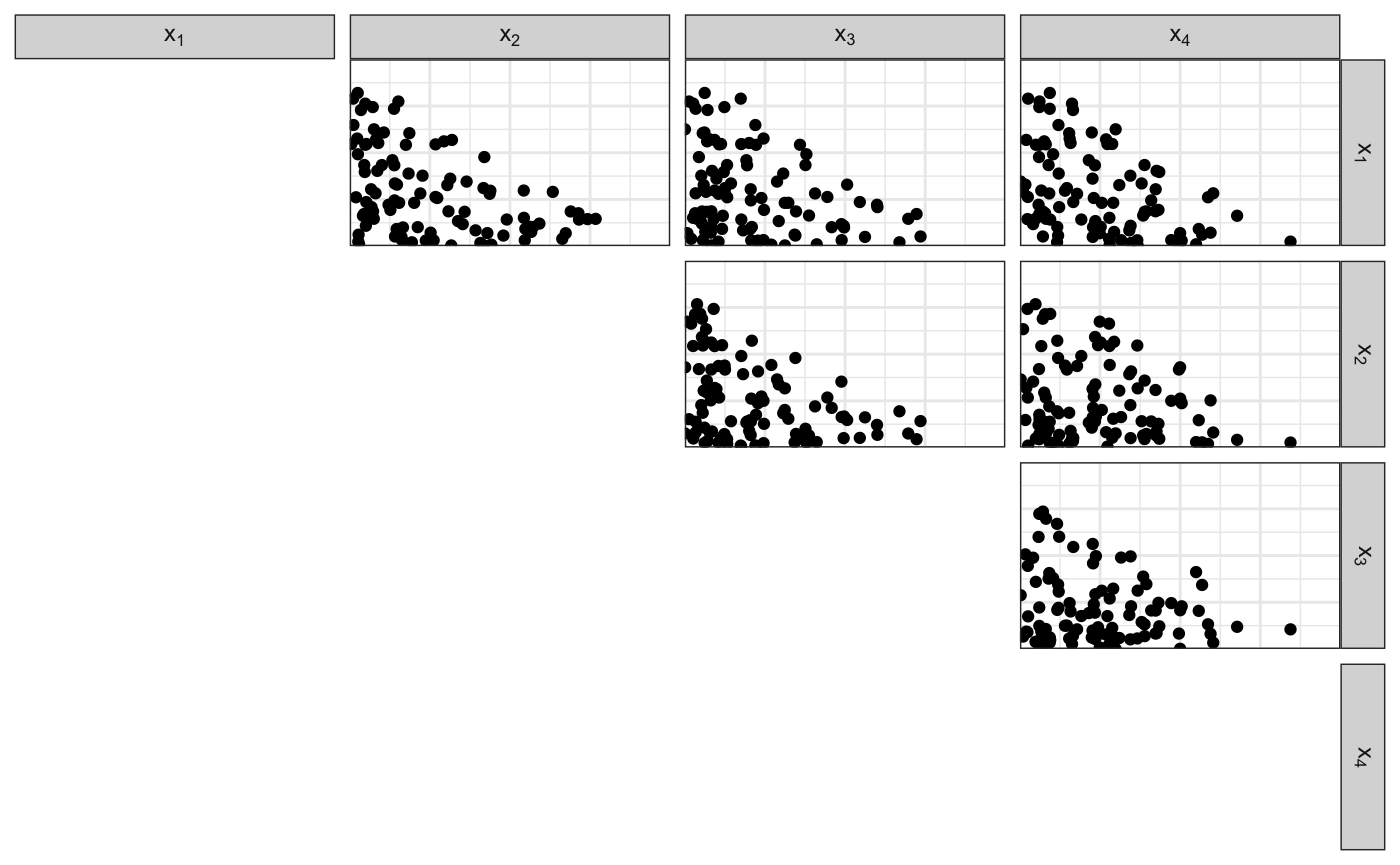
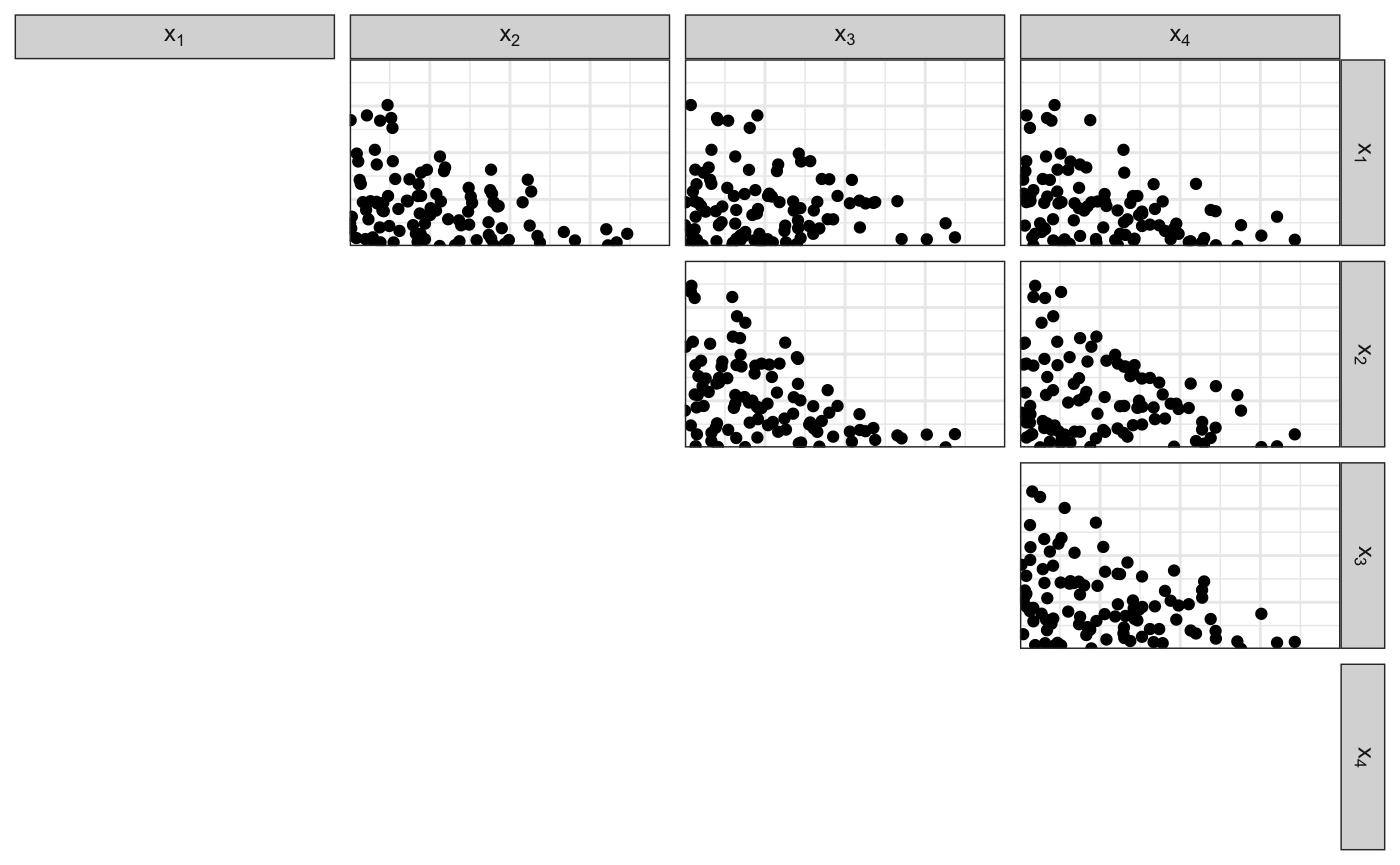
Built site for rsamplestudy: 0.3.2@943f0e3

diff --git a/articles/dirichletdirichlet-study.html b/articles/dirichletdirichlet-study.html
@@ -145,24 +145,24 @@ This vignette describes the Dirichlet-Dirichlet model.</p>
 <p>Notice that the hyperparameter is sampled, too (but it can be fixed).</p>
 <div class="sourceCode" id="cb2"><html><body><pre class="r"><span class="fu"><a href="https://rdrr.io/r/utils/head.html">head</a></span>(<span class="no">list_pop</span>$<span class="no">df_pop</span>)
 <span class="co">#&gt; # A tibble: 6 x 5</span>
-<span class="co">#&gt;   source `x[1]` `x[2]` `x[3]`   `x[4]`</span>
-<span class="co">#&gt;    &lt;int&gt;  &lt;dbl&gt;  &lt;dbl&gt;  &lt;dbl&gt;    &lt;dbl&gt;</span>
-<span class="co">#&gt; 1      1      0      0 0.997  0.00343 </span>
-<span class="co">#&gt; 2      1      0      0 0.999  0.000762</span>
-<span class="co">#&gt; 3      1      0      0 0.648  0.352   </span>
-<span class="co">#&gt; 4      1      0      0 0.0148 0.985   </span>
-<span class="co">#&gt; 5      1      0      0 0.958  0.0418  </span>
-<span class="co">#&gt; 6      1      0      0 0.871  0.129</span>
+<span class="co">#&gt;   source `x[1]` `x[2]`    `x[3]` `x[4]`</span>
+<span class="co">#&gt;    &lt;int&gt;  &lt;dbl&gt;  &lt;dbl&gt;     &lt;dbl&gt;  &lt;dbl&gt;</span>
+<span class="co">#&gt; 1      1  0.636 0.364  1.30e- 82      0</span>
+<span class="co">#&gt; 2      1  0.847 0.153  9.62e- 46      0</span>
+<span class="co">#&gt; 3      1  0.821 0.179  5.33e-  8      0</span>
+<span class="co">#&gt; 4      1  0.250 0.750  1.92e-318      0</span>
+<span class="co">#&gt; 5      1  0.920 0.0803 5.24e- 70      0</span>
+<span class="co">#&gt; 6      1  0.973 0.0265 8.41e- 81      0</span>
 <span class="fu"><a href="https://rdrr.io/r/utils/head.html">head</a></span>(<span class="no">list_pop</span>$<span class="no">df_sources</span>)
 <span class="co">#&gt; # A tibble: 6 x 5</span>
-<span class="co">#&gt;   source `theta[1]` `theta[2]`   `theta[3]` `theta[4]`</span>
-<span class="co">#&gt;    &lt;int&gt;      &lt;dbl&gt;      &lt;dbl&gt;        &lt;dbl&gt;      &lt;dbl&gt;</span>
-<span class="co">#&gt; 1      1   3.20e-20   5.86e-10 0.801             0.199</span>
-<span class="co">#&gt; 2      2   5.52e- 4   7.58e-38 0.0000000112      0.999</span>
-<span class="co">#&gt; 3      3   6.42e-36   1.61e-19 0.107             0.893</span>
-<span class="co">#&gt; 4      4   4.18e- 1   6.28e-20 0.369             0.213</span>
-<span class="co">#&gt; 5      5   4.48e-48   2.09e-11 0.636             0.364</span>
-<span class="co">#&gt; 6      6   7.36e-32   6.54e- 7 0.789             0.211</span></pre></body></html></div>
+<span class="co">#&gt;   source `theta[1]` `theta[2]` `theta[3]` `theta[4]`</span>
+<span class="co">#&gt;    &lt;int&gt;      &lt;dbl&gt;      &lt;dbl&gt;      &lt;dbl&gt;      &lt;dbl&gt;</span>
+<span class="co">#&gt; 1      1     0.602      0.396    2.01e- 3   3.79e- 9</span>
+<span class="co">#&gt; 2      2     0.195      0.802    4.95e- 6   3.33e- 3</span>
+<span class="co">#&gt; 3      3     0.0529     0.947    9.20e-32   9.60e-10</span>
+<span class="co">#&gt; 4      4     0.358      0.638    2.48e- 8   3.79e- 3</span>
+<span class="co">#&gt; 5      5     0.508      0.0397   8.42e-12   4.52e- 1</span>
+<span class="co">#&gt; 6      6     0.923      0.0773   1.83e- 7   8.58e- 5</span></pre></body></html></div>
 </div>
 <div id="hyperparameters" class="section level2">
 <h2 class="hasAnchor">
@@ -170,7 +170,7 @@ This vignette describes the Dirichlet-Dirichlet model.</p>
 <p>We assume that the Dirichlet hyperparameter (the level farther from the data) comes from the Uniform distribution on the (p-1)-Simplex.<br>
 In other words, we will sample the Dirichlet hyperparameter from the <span class="math inline">\(\text{Dirichlet}{(\boldsymbol{1})}\)</span> distribution.</p>
 <p>The shortcut function the package is <code>fun_rdirichlet_hyperparameter</code>:</p>
-<div class="sourceCode" id="cb3"><html><body><pre class="r"><span class="no">df_diri</span> <span class="kw">&lt;-</span> <span class="fu">map_dfr</span>(<span class="fl">1</span>:<span class="fl">300</span>, ~ <span class="fu"><a href="../reference/fun_rdirichlet_hyperparameter.html">fun_rdirichlet_hyperparameter</a></span>(<span class="fl">3</span>))
+<div class="sourceCode" id="cb3"><html><body><pre class="r"><span class="no">df_diri</span> <span class="kw">&lt;-</span> <span class="kw pkg">purrr</span><span class="kw ns">::</span><span class="fu"><a href="https://purrr.tidyverse.org/reference/map.html">map_dfr</a></span>(<span class="fl">1</span>:<span class="fl">300</span>, ~ <span class="fu"><a href="../reference/fun_rdirichlet_hyperparameter.html">fun_rdirichlet_hyperparameter</a></span>(<span class="fl">3</span>))
 <span class="fu">scatter_matrix_simplex</span>(<span class="no">df_diri</span>)</pre></body></html></div>
 <p><img src="dirichletdirichlet-study_files/figure-html/unnamed-chunk-3-1.png" width="700"></p>
 </div>
@@ -189,33 +189,33 @@ This is generically done using <code>make_dataset_splits</code>:</p>
 <span class="co">#&gt; [5] "df_questioned"  "df_background"</span></pre></body></html></div>
 <div class="sourceCode" id="cb5"><html><body><pre class="r"><span class="fu"><a href="https://rdrr.io/r/utils/head.html">head</a></span>(<span class="no">list_samples</span>$<span class="no">df_reference</span>)
 <span class="co">#&gt; # A tibble: 6 x 5</span>
-<span class="co">#&gt;   source `x[1]` `x[2]` `x[3]`  `x[4]`</span>
-<span class="co">#&gt;    &lt;int&gt;  &lt;dbl&gt;  &lt;dbl&gt;  &lt;dbl&gt;   &lt;dbl&gt;</span>
-<span class="co">#&gt; 1      6      0      0 0.107  0.893  </span>
-<span class="co">#&gt; 2      6      0      0 0.946  0.0543 </span>
-<span class="co">#&gt; 3      6      0      0 0.462  0.538  </span>
-<span class="co">#&gt; 4      6      0      0 0.0735 0.926  </span>
-<span class="co">#&gt; 5      6      0      0 0.999  0.00119</span>
-<span class="co">#&gt; 6      6      0      0 0.407  0.593</span>
+<span class="co">#&gt;   source      `x[1]` `x[2]` `x[3]`    `x[4]`</span>
+<span class="co">#&gt;    &lt;int&gt;       &lt;dbl&gt;  &lt;dbl&gt;  &lt;dbl&gt;     &lt;dbl&gt;</span>
+<span class="co">#&gt; 1      2 0.572        0.428      0 1.98e-203</span>
+<span class="co">#&gt; 2      2 0.0000719    1.00       0 2.80e-  7</span>
+<span class="co">#&gt; 3      2 0.000000861  1.00       0 9.43e-188</span>
+<span class="co">#&gt; 4      2 0.0000108    1.00       0 5.25e- 25</span>
+<span class="co">#&gt; 5      2 0.0000107    1.00       0 2.51e- 47</span>
+<span class="co">#&gt; 6      2 0.235        0.765      0 4.54e-173</span>
 <span class="fu"><a href="https://rdrr.io/r/utils/head.html">head</a></span>(<span class="no">list_samples</span>$<span class="no">df_questioned</span>)
 <span class="co">#&gt; # A tibble: 5 x 5</span>
-<span class="co">#&gt;   source  `x[1]`    `x[2]`    `x[3]` `x[4]`</span>
-<span class="co">#&gt;    &lt;int&gt;   &lt;dbl&gt;     &lt;dbl&gt;     &lt;dbl&gt;  &lt;dbl&gt;</span>
-<span class="co">#&gt; 1      1 0       0.        9.59e-  1 0.0409</span>
-<span class="co">#&gt; 2      3 0       0.        3.06e-  2 0.969 </span>
-<span class="co">#&gt; 3      4 0.00248 0.        8.29e-  1 0.169 </span>
-<span class="co">#&gt; 4     15 0       0.        1.36e-236 1     </span>
-<span class="co">#&gt; 5     17 0       2.39e-126 9.54e-  1 0.0459</span>
+<span class="co">#&gt;   source  `x[1]`    `x[2]` `x[3]`   `x[4]`</span>
+<span class="co">#&gt;    &lt;int&gt;   &lt;dbl&gt;     &lt;dbl&gt;  &lt;dbl&gt;    &lt;dbl&gt;</span>
+<span class="co">#&gt; 1     12 0.0254  9.75e-  1      0 9.35e-25</span>
+<span class="co">#&gt; 2     12 0.00380 9.96e-  1      0 2.91e- 7</span>
+<span class="co">#&gt; 3     17 1       7.86e- 64      0 0.      </span>
+<span class="co">#&gt; 4     19 1       6.33e- 91      0 0.      </span>
+<span class="co">#&gt; 5     20 1.00    2.53e-252      0 4.38e- 4</span>
 <span class="fu"><a href="https://rdrr.io/r/utils/head.html">head</a></span>(<span class="no">list_samples</span>$<span class="no">df_background</span>)
 <span class="co">#&gt; # A tibble: 6 x 5</span>
-<span class="co">#&gt;   source `x[1]` `x[2]` `x[3]`   `x[4]`</span>
-<span class="co">#&gt;    &lt;int&gt;  &lt;dbl&gt;  &lt;dbl&gt;  &lt;dbl&gt;    &lt;dbl&gt;</span>
-<span class="co">#&gt; 1      1      0      0 0.997  0.00343 </span>
-<span class="co">#&gt; 2      1      0      0 0.999  0.000762</span>
-<span class="co">#&gt; 3      1      0      0 0.648  0.352   </span>
-<span class="co">#&gt; 4      1      0      0 0.0148 0.985   </span>
-<span class="co">#&gt; 5      1      0      0 0.958  0.0418  </span>
-<span class="co">#&gt; 6      1      0      0 0.871  0.129</span></pre></body></html></div>
+<span class="co">#&gt;   source `x[1]` `x[2]`    `x[3]` `x[4]`</span>
+<span class="co">#&gt;    &lt;int&gt;  &lt;dbl&gt;  &lt;dbl&gt;     &lt;dbl&gt;  &lt;dbl&gt;</span>
+<span class="co">#&gt; 1      1  0.636 0.364  1.30e- 82      0</span>
+<span class="co">#&gt; 2      1  0.847 0.153  9.62e- 46      0</span>
+<span class="co">#&gt; 3      1  0.821 0.179  5.33e-  8      0</span>
+<span class="co">#&gt; 4      1  0.250 0.750  1.92e-318      0</span>
+<span class="co">#&gt; 5      1  0.920 0.0803 5.24e- 70      0</span>
+<span class="co">#&gt; 6      1  0.973 0.0265 8.41e- 81      0</span></pre></body></html></div>
 <div id="source-parameters" class="section level3">
 <h3 class="hasAnchor">
 <a href="#source-parameters" class="anchor"></a>Source parameters</h3>

diff --git a/articles/dirichlet-distribution.html b/articles/dirichlet-distribution.html
@@ -153,14 +153,14 @@ In other words, <span class="math inline">\(\boldsymbol{X} \in \text{Simplex}{(p
 <div class="sourceCode" id="cb2"><html><body><pre class="r"><span class="no">df_diri</span> <span class="kw">&lt;-</span> <span class="fu"><a href="../reference/fun_rdirichlet.html">fun_rdirichlet</a></span>(<span class="no">n</span>, <span class="no">alpha</span>)
 <span class="fu"><a href="https://rdrr.io/r/utils/head.html">head</a></span>(<span class="no">df_diri</span>)
 <span class="co">#&gt; # A tibble: 6 x 4</span>
-<span class="co">#&gt;    `x[1]`   `x[2]` `x[3]`   `x[4]`</span>
-<span class="co">#&gt;     &lt;dbl&gt;    &lt;dbl&gt;  &lt;dbl&gt;    &lt;dbl&gt;</span>
-<span class="co">#&gt; 1 0.00347 8.72e-15  0.997 1.76e-11</span>
-<span class="co">#&gt; 2 0.104   2.83e- 5  0.896 7.12e- 7</span>
-<span class="co">#&gt; 3 0.272   7.46e- 7  0.728 3.20e- 5</span>
-<span class="co">#&gt; 4 0.0220  3.87e- 6  0.978 2.47e- 5</span>
-<span class="co">#&gt; 5 0.185   1.51e- 5  0.815 3.45e- 6</span>
-<span class="co">#&gt; 6 0.0113  3.85e- 3  0.985 4.86e- 5</span></pre></body></html></div>
+<span class="co">#&gt;     `x[1]`        `x[2]` `x[3]`   `x[4]`</span>
+<span class="co">#&gt;      &lt;dbl&gt;         &lt;dbl&gt;  &lt;dbl&gt;    &lt;dbl&gt;</span>
+<span class="co">#&gt; 1 0.191    0.235          0.509 6.49e- 2</span>
+<span class="co">#&gt; 2 0.00242  0.00000000315  0.792 2.06e- 1</span>
+<span class="co">#&gt; 3 0.000817 0.00815        0.991 2.77e-14</span>
+<span class="co">#&gt; 4 0.0596   0.000266       0.749 1.92e- 1</span>
+<span class="co">#&gt; 5 0.130    0.000144       0.870 4.99e- 7</span>
+<span class="co">#&gt; 6 0.0139   0.0000514      0.986 2.68e- 5</span></pre></body></html></div>
 <pre><code>#&gt; Loading required namespace: ggplot2
 #&gt; Loading required namespace: GGally
 #&gt; Registered S3 method overwritten by 'GGally':
@@ -178,14 +178,14 @@ In other words, <span class="math inline">\(\boldsymbol{X} \in \text{Simplex}{(p
 <div class="sourceCode" id="cb5"><html><body><pre class="r"><span class="no">df_diri</span> <span class="kw">&lt;-</span> <span class="fu"><a href="../reference/fun_rdirichlet.html">fun_rdirichlet</a></span>(<span class="no">n</span>, <span class="no">alpha</span>)
 <span class="fu"><a href="https://rdrr.io/r/utils/head.html">head</a></span>(<span class="no">df_diri</span>)
 <span class="co">#&gt; # A tibble: 6 x 4</span>
-<span class="co">#&gt;   `x[1]` `x[2]`  `x[3]` `x[4]`</span>
-<span class="co">#&gt;    &lt;dbl&gt;  &lt;dbl&gt;   &lt;dbl&gt;  &lt;dbl&gt;</span>
-<span class="co">#&gt; 1 0.172  0.0447 0.723   0.0604</span>
-<span class="co">#&gt; 2 0.327  0.304  0.0588  0.310 </span>
-<span class="co">#&gt; 3 0.329  0.147  0.506   0.0170</span>
-<span class="co">#&gt; 4 0.0690 0.674  0.00810 0.249 </span>
-<span class="co">#&gt; 5 0.0565 0.479  0.345   0.119 </span>
-<span class="co">#&gt; 6 0.297  0.439  0.124   0.141</span></pre></body></html></div>
+<span class="co">#&gt;     `x[1]` `x[2]` `x[3]` `x[4]`</span>
+<span class="co">#&gt;      &lt;dbl&gt;  &lt;dbl&gt;  &lt;dbl&gt;  &lt;dbl&gt;</span>
+<span class="co">#&gt; 1 0.279    0.270  0.186   0.264</span>
+<span class="co">#&gt; 2 0.229    0.0874 0.564   0.120</span>
+<span class="co">#&gt; 3 0.0659   0.206  0.233   0.495</span>
+<span class="co">#&gt; 4 0.229    0.0852 0.515   0.170</span>
+<span class="co">#&gt; 5 0.268    0.120  0.260   0.353</span>
+<span class="co">#&gt; 6 0.000579 0.281  0.0403  0.678</span></pre></body></html></div>
 <div class="sourceCode" id="cb6"><html><body><pre class="r"><span class="fu">scatter_matrix_simplex</span>(<span class="no">df_diri</span>)</pre></body></html></div>
 <p><img src="dirichlet-distribution_files/figure-html/unnamed-chunk-5-1.png" width="700"></p>
 </div>
@@ -202,12 +202,12 @@ In other words, <span class="math inline">\(\boldsymbol{X} \in \text{Simplex}{(p
 <span class="co">#&gt; # A tibble: 6 x 4</span>
 <span class="co">#&gt;   `x[1]` `x[2]` `x[3]` `x[4]`</span>
 <span class="co">#&gt;    &lt;dbl&gt;  &lt;dbl&gt;  &lt;dbl&gt;  &lt;dbl&gt;</span>
-<span class="co">#&gt; 1  0.290  0.176  0.284  0.250</span>
-<span class="co">#&gt; 2  0.280  0.194  0.246  0.280</span>
-<span class="co">#&gt; 3  0.230  0.287  0.288  0.195</span>
-<span class="co">#&gt; 4  0.267  0.187  0.252  0.294</span>
-<span class="co">#&gt; 5  0.245  0.238  0.260  0.257</span>
-<span class="co">#&gt; 6  0.266  0.278  0.219  0.237</span></pre></body></html></div>
+<span class="co">#&gt; 1  0.278  0.253  0.217  0.252</span>
+<span class="co">#&gt; 2  0.289  0.264  0.271  0.176</span>
+<span class="co">#&gt; 3  0.224  0.250  0.272  0.254</span>
+<span class="co">#&gt; 4  0.260  0.291  0.213  0.236</span>
+<span class="co">#&gt; 5  0.190  0.279  0.248  0.283</span>
+<span class="co">#&gt; 6  0.303  0.224  0.244  0.229</span></pre></body></html></div>
 <div class="sourceCode" id="cb9"><html><body><pre class="r"><span class="fu">scatter_matrix_simplex</span>(<span class="no">df_diri</span>)</pre></body></html></div>
 <p><img src="dirichlet-distribution_files/figure-html/unnamed-chunk-8-1.png" width="700"></p>
 </div>
@@ -224,12 +224,12 @@ In other words, <span class="math inline">\(\boldsymbol{X} \in \text{Simplex}{(p
 <span class="co">#&gt; # A tibble: 6 x 4</span>
 <span class="co">#&gt;      `x[1]`    `x[2]`    `x[3]`    `x[4]`</span>
 <span class="co">#&gt;       &lt;dbl&gt;     &lt;dbl&gt;     &lt;dbl&gt;     &lt;dbl&gt;</span>
-<span class="co">#&gt; 1 6.01e-269 0.        1.00e+  0 1.32e- 83</span>
-<span class="co">#&gt; 2 1.11e- 93 3.74e-162 3.94e- 69 1.00e+  0</span>
-<span class="co">#&gt; 3 8.70e- 26 1.09e-177 1.00e+  0 1.06e- 21</span>
-<span class="co">#&gt; 4 2.00e- 11 1.96e-268 2.47e-229 1.00e+  0</span>
-<span class="co">#&gt; 5 0.        5.29e-142 1.00e+  0 4.98e-116</span>
-<span class="co">#&gt; 6 1.00e+  0 1.34e- 91 3.07e- 91 1.37e- 63</span></pre></body></html></div>
+<span class="co">#&gt; 1 1.00e+  0 1.05e- 11 1.48e- 99 2.77e- 90</span>
+<span class="co">#&gt; 2 4.77e- 66 2.79e-102 4.96e-130 1.00e+  0</span>
+<span class="co">#&gt; 3 0.        1.00e+  0 8.15e-104 1.80e- 13</span>
+<span class="co">#&gt; 4 5.25e-134 1.85e-114 1.00e+  0 1.20e-126</span>
+<span class="co">#&gt; 5 8.83e-222 1.96e-213 5.58e-259 1.00e+  0</span>
+<span class="co">#&gt; 6 1.00e+  0 3.84e- 14 1.86e- 97 0.</span></pre></body></html></div>
 <div class="sourceCode" id="cb12"><html><body><pre class="r"><span class="fu">scatter_matrix_simplex</span>(<span class="no">df_diri</span>)</pre></body></html></div>
 <p><img src="dirichlet-distribution_files/figure-html/unnamed-chunk-11-1.png" width="700"></p>
 </div>

diff --git a/reference/fun_rdirichlet_population.html b/reference/fun_rdirichlet_population.html
@@ -166,8 +166,8 @@ Optionally pass the between-source alpha hyperparameter used to generate the sou
     </tr>
     <tr>
       <th>alpha</th>
-      <td><p>between-source alpha hyperparameter.
-If <code>NULL</code>, it is generated from the Uniform distribution on the (p-1)-simplex (see <code><a href='fun_rdirichlet_hyperparameter.html'>fun_rdirichlet_hyperparameter()</a></code>).</p></td>
+      <td><p>between-source alpha hyperparameter, a numeric vector or 1-row data.frame.
+If <code>NULL</code> (default), it is generated from the Uniform distribution on the (p-1)-simplex (see <code><a href='fun_rdirichlet_hyperparameter.html'>fun_rdirichlet_hyperparameter()</a></code>).</p></td>
     </tr>
     <tr>
       <th>name_var</th>

diff --git a/reference/fun_rdirichlet.html b/reference/fun_rdirichlet.html
@@ -149,7 +149,7 @@
     </tr>
     <tr>
       <th>a</th>
-      <td><p>Dirichlet parameter (a vector)</p></td>
+      <td><p>Dirichlet parameter (a vector that will be coerced to numeric)</p></td>
     </tr>
     <tr>
       <th>text</th>
@@ -159,7 +159,7 @@
 
     <h2 class="hasAnchor" id="value"><a class="anchor" href="#value"></a>Value</h2>
 
-    <p>a tibble with named colums, where each row is a Dirichlet sample</p>
+    <p>a tibble with named columns, where each row is a Dirichlet sample</p>
     <h2 class="hasAnchor" id="see-also"><a class="anchor" href="#see-also"></a>See also</h2>
 
     <div class='dont-index'><p><code><a href='https://rdrr.io/pkg/Compositional/man/rdiri.html'>Compositional::rdiri()</a></code></p>
